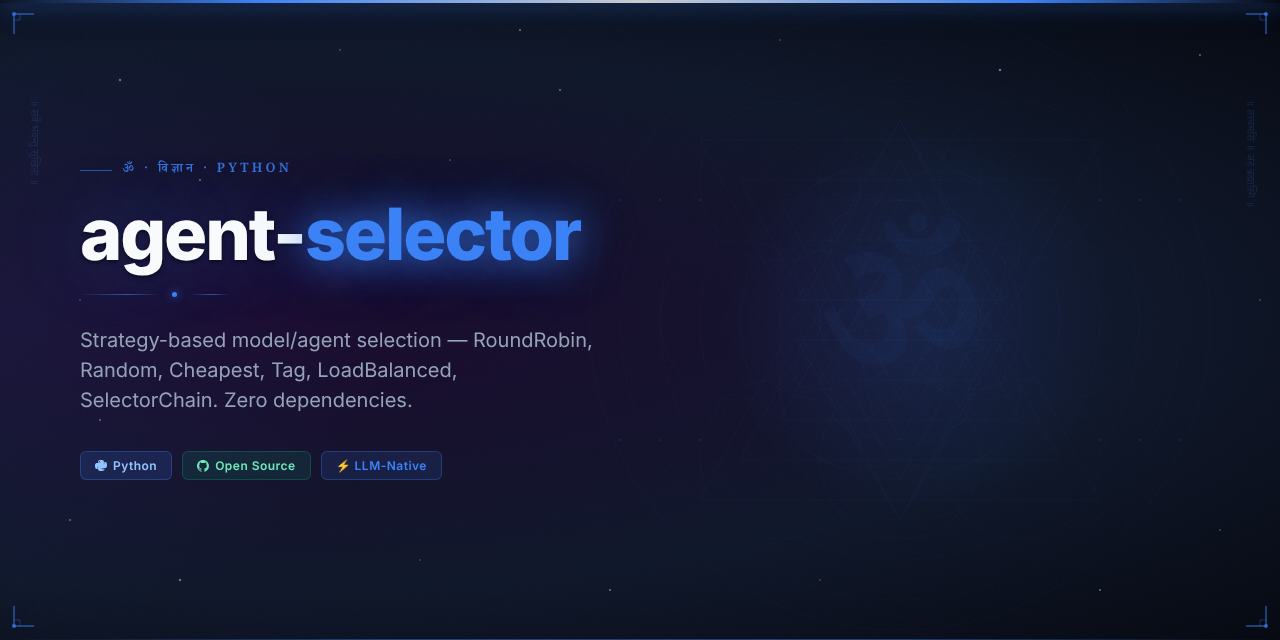
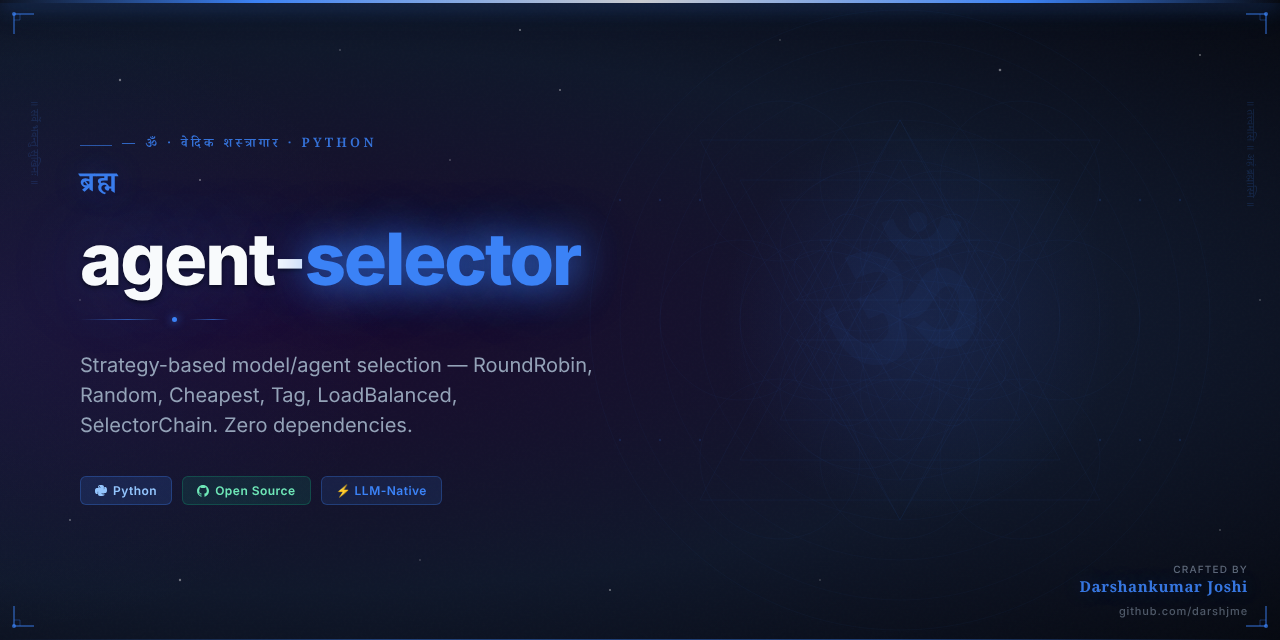
feat: add Vedic Arsenal hero image and updated README
Part of darshjme/arsenal — 100 production-grade Python libraries for LLM agents.
Vedic branding: ancient philosophy meets modern AI engineering.

diff --git a/README.md b/README.md
@@ -1,10 +1,12 @@
 <div align="center">
 
-<img src="assets/agent-selector-hero.png" alt="agent-selector — Vedic Arsenal" width="100%" />
+<img src="assets/agent-selector-hero.png" alt="agent-selector — Vedic Arsenal by Darshankumar Joshi" width="100%" />
 
 # 🌊 agent-selector
 
-### *ब्रह्म* — Brahma — the universal intelligence
+<h3><em>ब्रह्म</em></h3>
+
+> *Brahma — the universal intelligence*
 
 **Strategy-based model/agent selection — RoundRobin, Random, Cheapest, Tag, LoadBalanced, SelectorChain. Zero dependencies.**
 
@@ -39,6 +41,19 @@ Or clone directly:
 git clone https://github.com/darshjme/agent-selector.git
 cd agent-selector
 pip install -e .
+```
+
+## How It Works
+
+```mermaid
+flowchart LR
+    A[Input] --> B[agent-selector]
+    B --> C{Process}
+    C -- Success --> D[Output]
+    C -- Error --> E[Handle / Retry]
+    E --> B
+    style B fill:#6b21a8,color:#fff
+    note["Selector — Zero Dependencies"]
 ```
 
 ## Quick Start
@@ -90,7 +105,7 @@ MIT — use freely, build freely.
 
 <div align="center">
 
-**Built with 🌊 by [Darshankumar Joshi](https://github.com/darshjme)**
+**Built with 🌊 by [Darshankumar Joshi](https://github.com/darshjme)** · [@thedarshanjoshi](https://twitter.com/thedarshanjoshi)
 
 *"कर्मण्येवाधिकारस्ते मा फलेषु कदाचन"*
 *Your right is to action alone, never to the fruits thereof.*
